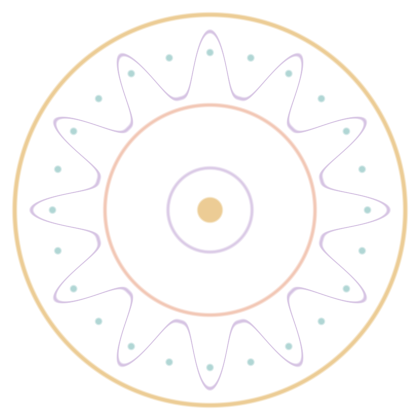
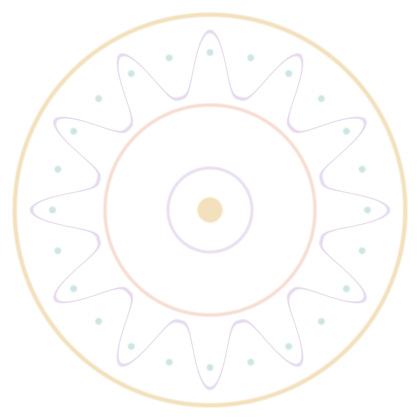
Fade the mandala watermark by a global opacity gain
The motif's opacity is baked into the PNGs, so there was no token to lower:
Qt draws background-image at full strength, and the control-center panel
paints var(--acrylic), which the Rangalipi blocks declare at 1% alpha, so
there is no panel fill to hide behind either.

Added WATERMARK_GAIN, applied once in prepare() so it scales every layer of
all 22 designs together and leaves each motif's relative layer weighting
intact. Scaling the designs individually would mean re-tuning 22 of them to
hit one visual target, and they would drift apart again on the next edit.

Measured across all 22 motifs: mean alpha 10.14 -> 6.31 (0.622x against a
0.62 target) and peak alpha 191 -> 138, so the brightest stroke -- the part
that competes with label text -- came down too. Regeneration is byte-
reproducible: a second run produced identical files.

The MAX_WATERMARK_ALPHA ceiling deliberately still applies to the authored
alphas, before the gain, so the designs stay honest as documents of their own
intent regardless of the global knob.

diff --git a/yasb/tools/theme/mandala-gen/src/main.rs b/yasb/tools/theme/mandala-gen/src/main.rs
@@ -62,6 +62,28 @@ const MIN_PATTERN_DISTANCE: u32 = 10;
 #[cfg(test)]
 const MAX_WATERMARK_ALPHA: f64 = 0.50;
 
+/// Global opacity of the whole motif, applied to every layer at [`prepare`]
+/// time.
+///
+/// This is the knob the request "decrease the opacity of the mandala art"
+/// needs, and it is deliberately *not* a per-layer edit. The 22 designs in
+/// [`design_for`] declare their own alphas — a bold motif wants a heavy outer
+/// ring, a fine one wants hairlines — so scaling those individually would mean
+/// 22 designs re-tuned to hit one visual target, and they would drift apart
+/// again the next time any design was touched. One multiplier moves all of them
+/// together and leaves the relative weighting intact.
+///
+/// The PNG's alpha is the *only* thing keeping the motif off the text: the
+/// control-center panel paints `var(--acrylic)`, which the Rangalipi blocks
+/// declare at 1%, so there is effectively no panel fill to hide behind. Which
+/// is why this has to be baked into the image rather than left to CSS — Qt
+/// draws `background-image` at full strength.
+///
+/// 0.62 keeps every layer proportional while pulling the motif clearly back
+/// under the labels. Regenerate with `mandala-gen generate` after changing it;
+/// editing the constant alone changes nothing on screen.
+const WATERMARK_GAIN: f64 = 0.62;
+
 // ---------------------------------------------------------------------------
 // Palette roles: which styles.css token tints a layer
 // ---------------------------------------------------------------------------
@@ -454,7 +476,7 @@ fn prepare(layer: &Layer, pal: &HashMap<Role, Rgba>) -> Prim {
             )
         }
     };
-    Prim { kind, color: rgb(role), alpha }
+    Prim { kind, color: rgb(role), alpha: alpha * WATERMARK_GAIN }
 }
 
 /// Stroke coverage of one prim at (u, v); `rr`/`th` are the polar forms.
@@ -1269,11 +1291,32 @@ mod tests {
             .collect()
     }
 
+    /// The gain is what actually decides how strong the watermark reads, so a
+    /// silent edit to it would change all 22 motifs with nothing to notice.
+    ///
+    /// It has to stay in `(0, 1]`: at 1.0 the motif is at its authored
+    /// strength, and above that the ceiling test below becomes the only thing
+    /// standing between a stroke and the body text. At 0 the PNGs would be
+    /// fully transparent and the themes would lose the art entirely, which
+    /// `generate` would not report as an error -- it only checks the files are
+    /// distinct.
+    #[test]
+    fn the_watermark_gain_is_a_real_reduction_not_a_no_op() {
+        assert!(
+            WATERMARK_GAIN > 0.0 && WATERMARK_GAIN <= 1.0,
+            "WATERMARK_GAIN is {WATERMARK_GAIN}, outside (0, 1]"
+        );
+    }
+
     /// The control-center panel paints this art over a `--acrylic` that is 1%
     /// opaque, so the PNG's own alpha is the only thing between the motif and
     /// the body text. Nothing here may exceed `MAX_WATERMARK_ALPHA`, or the
     /// brightest stroke lands under the text at a contrast no theme can
     /// recover.
+    ///
+    /// The bound is on the authored alpha, so it holds *before* the gain is
+    /// applied. That is deliberate: it keeps the designs honest as documents of
+    /// their own intent, independently of the global opacity knob.
     #[test]
     fn no_layer_is_opaque_enough_to_fight_the_text() {
         for (name, _stem, layers) in every_theme() {
